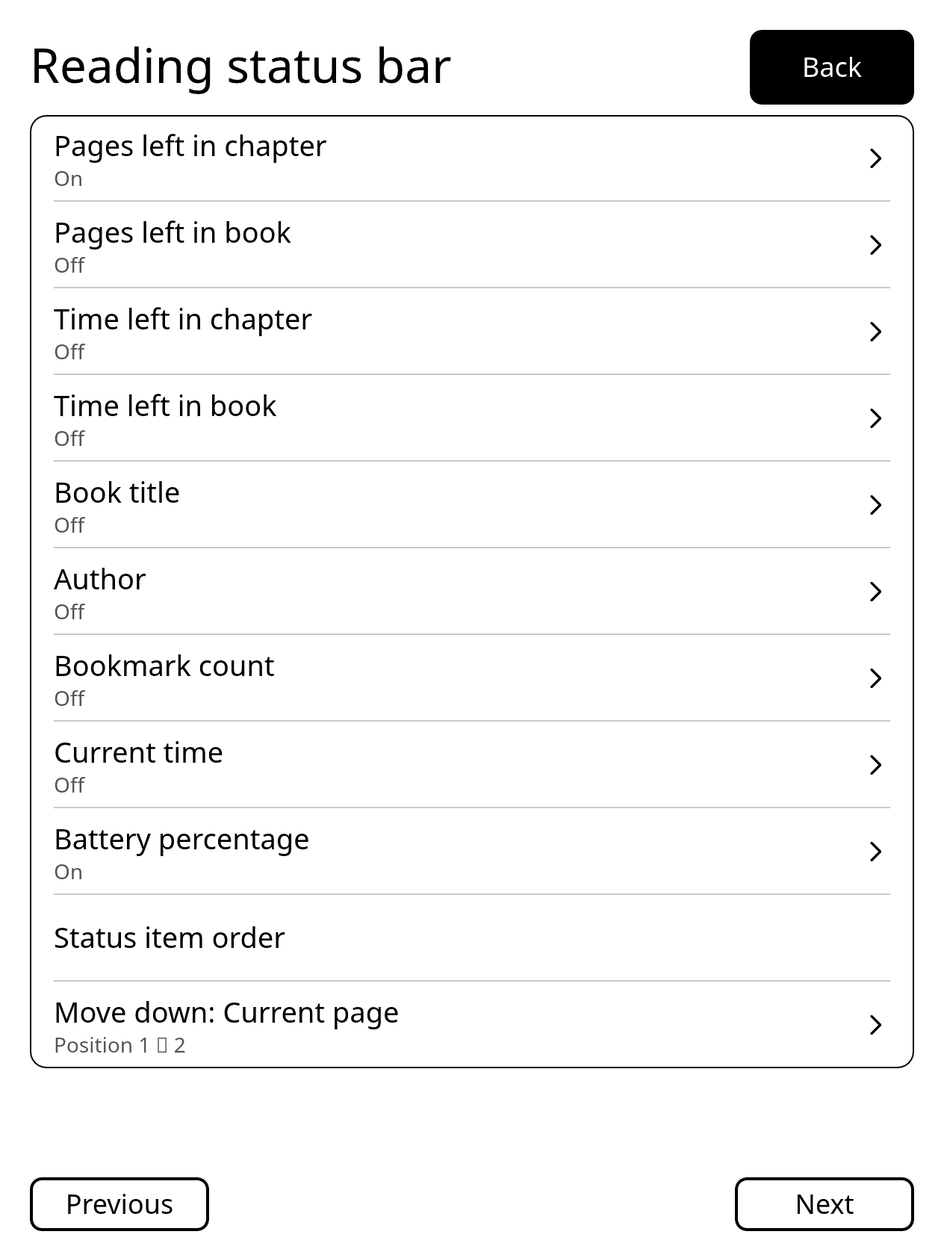
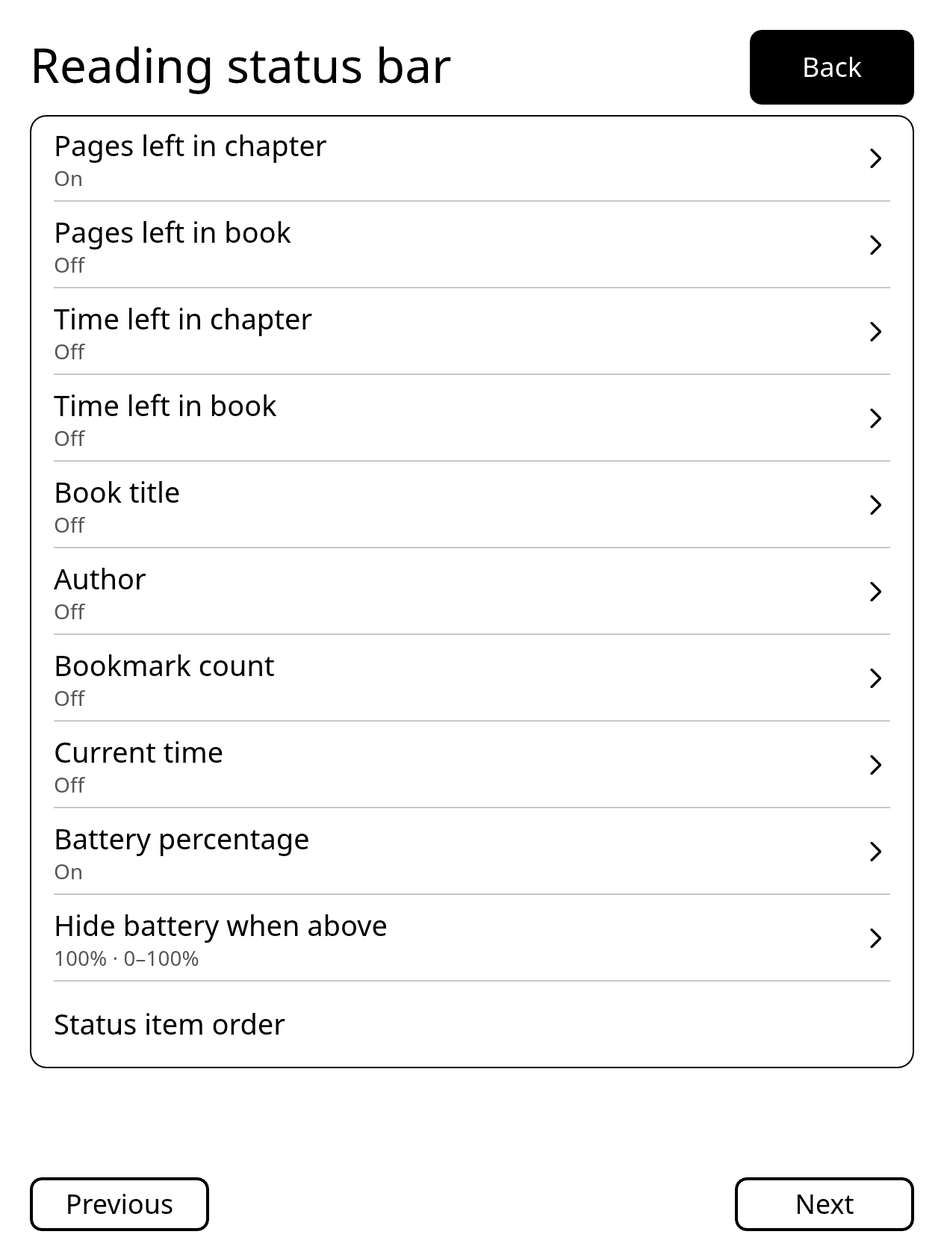
Match KOReader battery hide threshold

Changed region(s): [[0.0617, 0.7119, 0.4011, 0.7738], [0.0617, 0.8048, 0.432, 0.8357]]

diff --git a/src/app.rs b/src/app.rs
@@ -305,6 +305,7 @@ impl Screen {
             Self::NumberingValue(NumberField::AutoTurnOverlapVertical) => "Vertical overlap",
             Self::NumberingValue(NumberField::FooterTrackMinimumWidth) => "Progress bar width",
             Self::NumberingValue(NumberField::FooterTrackMarginWidth) => "Progress bar margins",
+            Self::NumberingValue(NumberField::FooterBatteryHideThreshold) => "Battery threshold",
             Self::NumberingValue(NumberField::MarginSize) => "Margin label size",
             Self::NumberingValue(_) => "Characters per page",
             Self::NumberingDefaults => "Page numbering defaults",
@@ -1371,7 +1372,9 @@ impl Reader {
                 } else if matches!(
                     screen,
                     Screen::NumberingValue(
-                        NumberField::FooterTrackMinimumWidth | NumberField::FooterTrackMarginWidth
+                        NumberField::FooterTrackMinimumWidth
+                            | NumberField::FooterTrackMarginWidth
+                            | NumberField::FooterBatteryHideThreshold
                     )
                 ) {
                     3
@@ -1397,6 +1400,11 @@ impl Reader {
                 Screen::NumberingValue(NumberField::FooterTrackMarginWidth) => {
                     let width = self.controls.footer_track_margin_width.unwrap_or(10);
                     self.editor.text = width.to_string().chars().collect();
+                    self.editor.caret = self.editor.text.len();
+                }
+                Screen::NumberingValue(NumberField::FooterBatteryHideThreshold) => {
+                    let threshold = self.controls.footer_battery_hide_threshold.unwrap_or(100);
+                    self.editor.text = threshold.to_string().chars().collect();
                     self.editor.caret = self.editor.text.len();
                 }
                 _ => {}
@@ -6718,6 +6726,9 @@ impl Reader {
                 }
                 Screen::NumberingValue(NumberField::FooterTrackMarginWidth) => {
                     ("Progress bar margin: 0 to 140 pixels", "Set")
+                }
+                Screen::NumberingValue(NumberField::FooterBatteryHideThreshold) => {
+                    ("Hide battery when charge is above: 0 to 100%", "Set")
                 }
                 Screen::NumberingValue(NumberField::MarginSize) => {
                     ("Margin text size from 8 to 20", "Set")
@@ -13649,6 +13660,67 @@ mod tests {
         }))
         .unwrap();
         assert!(app.footer_refresh_at.is_none());
+    }
+
+    #[test]
+    fn battery_footer_threshold_settings_persist_and_bound_hidden_level() {
+        use crate::reading_controls::{FooterItem, StatusBar};
+
+        let fixture = Fixture::new();
+        let mut app = fixture.app();
+        app.open_path(&fixture.book).unwrap();
+        app.activate(Action::SetReadingControls(ReadingControls {
+            status_bar: StatusBar::Custom,
+            footer_items: ReadingControls::default().footer_items
+                | FooterItem::BatteryPercentage.bit(),
+            ..app.controls
+        }))
+        .unwrap();
+
+        app.show(Screen::FooterSettings);
+        let threshold = app
+            .items()
+            .into_iter()
+            .find(|item| item.title == "Hide battery when above")
+            .expect("the battery item exposes its threshold");
+        assert_eq!(threshold.detail.as_deref(), Some("100% · 0–100%"));
+
+        let field = NumberField::FooterBatteryHideThreshold;
+        app.show(Screen::NumberingValue(field));
+        assert_eq!(app.editor.string(), "100");
+        app.editor.text = "80".chars().collect();
+        app.editor.caret = app.editor.text.len();
+        app.apply_numbering_input(field).unwrap();
+        assert_eq!(app.controls.footer_battery_hide_threshold, Some(80));
+        assert_eq!(
+            ReadingControls::load(&app.controls_path, true).footer_battery_hide_threshold,
+            Some(80)
+        );
+
+        app.show(Screen::NumberingValue(field));
+        app.editor.text = "101".chars().collect();
+        app.editor.caret = app.editor.text.len();
+        assert!(app.apply_numbering_input(field).is_err());
+        assert_eq!(app.controls.footer_battery_hide_threshold, Some(80));
+
+        app.show(Screen::FooterSettings);
+        assert_eq!(
+            app.items()
+                .into_iter()
+                .find(|item| item.title == "Hide battery when above")
+                .and_then(|item| item.detail),
+            Some("80% · 0–100%".to_owned())
+        );
+        app.activate(Action::SetReadingControls(ReadingControls {
+            footer_items: app.controls.footer_items & !FooterItem::BatteryPercentage.bit(),
+            ..app.controls
+        }))
+        .unwrap();
+        assert!(
+            app.items()
+                .iter()
+                .all(|item| item.title != "Hide battery when above")
+        );
     }
 
     #[test]

diff --git a/src/app/reading_footer.rs b/src/app/reading_footer.rs
@@ -295,9 +295,13 @@ fn draw_battery_icon(
     }
 }
 
-fn battery_footer_text(level: u32, charging: bool) -> String {
+fn battery_footer_text(level: u32, charging: bool, hide_above: u8) -> Option<String> {
+    let level = level.min(100);
+    if level > u32::from(hide_above.min(100)) {
+        return None;
+    }
     let label = if charging { "Charging" } else { "Battery" };
-    format!("{label} {}%", level.min(100))
+    Some(format!("{label} {level}%"))
 }
 
 impl Reader {
@@ -1078,8 +1082,12 @@ impl Reader {
                         .map_or(0, |state| state.bookmarks.len())
                 )),
                 FooterItem::CurrentTime => current_time.clone(),
-                FooterItem::BatteryPercentage => primitive_device::battery().map(|percent| {
-                    battery_footer_text(percent.min(100), primitive_device::charging())
+                FooterItem::BatteryPercentage => primitive_device::battery().and_then(|percent| {
+                    battery_footer_text(
+                        percent,
+                        primitive_device::charging(),
+                        self.controls.footer_battery_hide_threshold.unwrap_or(100),
+                    )
                 }),
             };
             if let Some(text) = text {
@@ -1599,6 +1607,20 @@ impl Reader {
                     },
                 ));
             }
+            if c.footer_items & FooterItem::BatteryPercentage.bit() != 0 {
+                items.push(
+                    Item::new(
+                        "Hide battery when above",
+                        Action::Show(Screen::NumberingValue(
+                            NumberField::FooterBatteryHideThreshold,
+                        )),
+                    )
+                    .detail(format!(
+                        "{}% · 0–100%",
+                        c.footer_battery_hide_threshold.unwrap_or(100)
+                    )),
+                );
+            }
             items.push(Item::new("Status item order", Action::Heading));
             let ordered = FooterItem::ordered(c.footer_order);
             for (index, item) in ordered.iter().copied().enumerate() {
@@ -1682,9 +1704,27 @@ mod tests {
 
     #[test]
     fn battery_footer_text_reports_level_and_charging_state() {
-        assert_eq!(battery_footer_text(47, false), "Battery 47%");
-        assert_eq!(battery_footer_text(88, true), "Charging 88%");
-        assert_eq!(battery_footer_text(140, false), "Battery 100%");
+        assert_eq!(
+            battery_footer_text(47, false, 100),
+            Some("Battery 47%".to_owned())
+        );
+        assert_eq!(
+            battery_footer_text(88, true, 100),
+            Some("Charging 88%".to_owned())
+        );
+        assert_eq!(
+            battery_footer_text(140, false, 100),
+            Some("Battery 100%".to_owned())
+        );
+        assert_eq!(
+            battery_footer_text(80, false, 80),
+            Some("Battery 80%".to_owned())
+        );
+        assert_eq!(battery_footer_text(81, false, 80), None);
+        assert_eq!(
+            battery_footer_text(0, false, 0),
+            Some("Battery 0%".to_owned())
+        );
     }
 
     #[test]

diff --git a/src/app/character_page_settings.rs b/src/app/character_page_settings.rs
@@ -20,6 +20,7 @@ pub(super) enum NumberField {
     AutoTurnOverlapVertical,
     FooterTrackMinimumWidth,
     FooterTrackMarginWidth,
+    FooterBatteryHideThreshold,
 }
 
 impl NumberField {
@@ -33,7 +34,9 @@ impl NumberField {
             | Self::WordSpacing(_) => Screen::Book,
             Self::AutoTurn => Screen::AutoTurn,
             Self::AutoTurnOverlapHorizontal | Self::AutoTurnOverlapVertical => Screen::AutoTurnPan,
-            Self::FooterTrackMinimumWidth | Self::FooterTrackMarginWidth => Screen::FooterSettings,
+            Self::FooterTrackMinimumWidth
+            | Self::FooterTrackMarginWidth
+            | Self::FooterBatteryHideThreshold => Screen::FooterSettings,
         }
     }
 }
@@ -202,6 +205,20 @@ impl Reader {
             self.show(field.parent());
             return Ok(());
         }
+        if field == NumberField::FooterBatteryHideThreshold {
+            let threshold = value
+                .trim()
+                .parse::<u8>()
+                .ok()
+                .filter(|percent| *percent <= 100)
+                .ok_or("Enter a battery threshold from 0% to 100%")?;
+            let mut controls = self.controls;
+            controls.footer_battery_hide_threshold = Some(threshold);
+            controls.save(&self.controls_path)?;
+            self.controls = controls;
+            self.show(field.parent());
+            return Ok(());
+        }
         if matches!(
             field,
             NumberField::FooterTrackMinimumWidth | NumberField::FooterTrackMarginWidth
@@ -255,6 +272,7 @@ impl Reader {
             }
             NumberField::FooterTrackMinimumWidth => unreachable!("handled above"),
             NumberField::FooterTrackMarginWidth => unreachable!("handled above"),
+            NumberField::FooterBatteryHideThreshold => unreachable!("handled above"),
             NumberField::MarginSize => {
                 controls.numbering.label_size = number
                     .filter(|n| (8..=20).contains(n))

diff --git a/src/reading_controls.rs b/src/reading_controls.rs
@@ -98,6 +98,9 @@ pub(crate) struct ReadingControls {
     pub footer_initial_marker: bool,
     #[serde(skip_serializing_if = "is_false")]
     pub footer_auto_refresh: bool,
+    /// Hide the custom footer battery item when the charge is above this level; absent keeps 100%.
+    #[serde(skip_serializing_if = "Option::is_none")]
+    pub footer_battery_hide_threshold: Option<u8>,
     #[serde(skip_serializing_if = "TopHeader::is_default")]
     pub top_header: TopHeader,
     #[serde(skip_serializing_if = "ChapterMarkerWidth::is_default")]
@@ -1240,12 +1243,14 @@ mod tests {
             footer_items: FooterItem::DEFAULT_MASK
                 | FooterItem::BookmarkCount.bit()
                 | FooterItem::BatteryPercentage.bit(),
+            footer_battery_hide_threshold: Some(80),
             ..ReadingControls::default()
         };
         let bytes = serde_json::to_vec(&controls).unwrap();
         let reopened: ReadingControls = serde_json::from_slice(&bytes).unwrap();
         assert_eq!(reopened.status_bar, StatusBar::Custom);
         assert_eq!(reopened.footer_items, controls.footer_items);
+        assert_eq!(reopened.footer_battery_hide_threshold, Some(80));
         assert_eq!(FooterItem::BatteryPercentage.label(), "Battery percentage");
         assert!(FooterItem::ordered(0).contains(&FooterItem::BatteryPercentage));
 

diff --git a/docs/koreader-controls-parity.md b/docs/koreader-controls-parity.md
@@ -70,7 +70,7 @@ The reference captures use KOReader on a Kindle Oasis 3, with a reflowable book 
 | Bottom configuration | `ReaderConfig` selects `CreOptions` for reflow or `KoptOptions` for a document with the kopt interface. Tap the lower zone or swipe north from it. A per-document index restores the last panel. `Activate menu` can allow taps, swipes or both, and `show_bottom_menu` defaults true if unset. [Provider selection and config dispatch](https://github.com/koreader/koreader/blob/v2026.07.1/frontend/apps/reader/modules/readerconfig.lua#L13-L197) · [Activation options](https://github.com/koreader/koreader/blob/v2026.07.1/frontend/ui/elements/menu_activate.lua) | **Desktop candidate** context-specific Text, View and Scan panels with direct Contents, Bookmarks, Highlights and Find; selected values; and live in-place adjustment for supported controls. Preserve direct reading actions while switching panels. **Open** complete provider-specific behavior and Kindle interaction comparison. |
 | Selection and long-press | KOReader offers Top, Center, Bottom or selected-text placement; Center is the default. Long-press has a single-word dictionary toggle and nine default actions: Ask, Do nothing, Highlight, Select and highlight, Note, Translate, Wikipedia, Dictionary and Fulltext search. The selection action grid also offers Copy. It provides highlight style/color prompts, a very-long-press interval and a corner auto-scroll toggle. [Action dispatch](https://github.com/koreader/koreader/blob/v2026.07.1/frontend/apps/reader/modules/readerhighlight.lua#L1967-L2029) · [Copy handler](https://github.com/koreader/koreader/blob/9192014d8bd82a91dc1012473be0f238dedfdb54/frontend/apps/reader/modules/readerhighlight.lua#L2374-L2395) · [Settings](https://github.com/koreader/koreader/blob/v2026.07.1/frontend/apps/reader/modules/readerhighlight.lua#L348-L380) · [Position choices](https://github.com/koreader/koreader/blob/v2026.07.1/frontend/apps/reader/modules/readerhighlight.lua#L336-L379) | **Implemented in the desktop candidate** all four dialog placements, Center default, nine default action choices, selected-text Copy with an in-process clipboard, single-word dictionary default/opt-out and the default-On corner-scroll preference. Copy normalizes selection whitespace; Paste inserts into Reader note, book search, bookmark search, dictionary and vocabulary fields. Optional Off/Style/Color/Style and color prompts preview the selected appearance and save per-mark EPUB/PDF highlights without changing future book defaults. HoldStart paints a temporary selection; paced HoldPan extends it; HoldRelease runs the chosen action. The very-long interval defaults to 3.0 seconds and adjusts from 0.9 to 20.0 seconds. Reflowable books auto-scroll only in continuous mode, matching KOReader; Reader also supports cross-page PDF selection behind the same preference. **Open** Kindle timing/zone comparison and real Documents checks. [Selection dialog](selection-dialog.md) · [Copy action screenshot](screenshots/selection-copy.png) · [Long-press behavior and screenshots](long-press-behavior.md) |
 | Edge zones | Default top and bottom menu strips are one eighth of display height, extended to one fifth in the middle half of width. The bottom one thirteenth is reserved for the status footer's taps, with overlap resolved by gesture priority. Ordinary page turns use independent tap zones. [Default regions](https://github.com/koreader/koreader/blob/v2026.07.1/defaults.lua#L54-L75) · [Footer priority](https://github.com/koreader/koreader/blob/v2026.07.1/frontend/apps/reader/modules/readerfooter.lua#L918-L956) | Prefer top and bottom drag origins for menu swipes and leave middle-page vertical drags to continuous text and PDF panning. Dispatch selected links, highlight gestures, touch lock, and Done through their existing paths. The shared swipe callback provides `start_x` alongside the `Input::Swipe` event, and Reader routes top/bottom swipes through left, middle and right start regions. Desktop regression coverage exercises those regions and remembers the selected group. **Open** comparison of exact touch zones on Kindle. Keep horizontal swipes and both physical page buttons on their current turn handlers. [PrimitiveOS input contract](https://github.com/PrimitiveOS/kindle-primtitive-tools/blob/398679696d19e0334a164775a3740cc700ffc9de/crates/kl-core/src/ui.rs#L50-L61) |
-| Status and exit | The status footer is independent of both overlay panels. Tapping cycles indicators or toggles visibility in all-items mode. A configurable long press opens Skim when enabled. KOReader exposes individually selectable and orderable metrics, four separators, decimal precision, an option to count the current page as remaining, and optional clock and battery refresh. Its progress track defaults to Alongside, Thick (7 px), 20% minimum width and 10 px margin; chapter markers default to 2 px with Thin/Medium/Thick choices. General extension-provided footer content remains out of scope. [Footer defaults](https://github.com/koreader/koreader/blob/v2026.07.1/frontend/apps/reader/modules/readerfooter.lua#L487-L539) · [Position and track height](https://github.com/koreader/koreader/blob/v2026.07.1/frontend/apps/reader/modules/readerfooter.lua#L1131-L1264) · [Margins, minimum width and lock option](https://github.com/koreader/koreader/blob/v2026.07.1/frontend/apps/reader/modules/readerfooter.lua#L1266-L1349) · [Chapter marker width](https://github.com/koreader/koreader/blob/v2026.07.1/frontend/apps/reader/modules/readerfooter.lua#L1808-L1828) · [Pages left and percentage generation](https://github.com/koreader/koreader/blob/v2026.07.1/frontend/apps/reader/modules/readerfooter.lua#L253-L313) · [Tap and hold behavior](https://github.com/koreader/koreader/blob/v2026.07.1/frontend/apps/reader/modules/readerfooter.lua#L2387-L2427) · [Main and exit](https://github.com/koreader/koreader/blob/v2026.07.1/frontend/ui/elements/reader_menu_order.lua#L227-L273) | **Desktop candidate, verified by Mac workflow tests** page/chapter/progress/remaining-page/time metrics, book title/author, bookmark count, custom selection and reordering, separator choice, include-current page count, percentage precision, and progress-track placement, thickness, minimum width, margin, width lock, initial-position marker and chapter-tick width. Current time and battery percentage are selectable; the battery item reports charging state. Optional minute-boundary refresh defaults Off, pauses during sleep and resumes on wake. [Current clock capture](screenshots/current-time-footer.png) · [Battery item settings](screenshots/battery-footer-settings.png) · [Reading footer](screenshots/custom-footer-status.png) · [Alongside](screenshots/reading-footer-alongside.png) · [Locked width](screenshots/reading-footer-locked.png) · [Footer settings](screenshots/reading-footer-settings.png). **Open** footer typography/alignment/height controls, presets, exact chapter-marker placement and Kindle battery/appearance acceptance. Brightness and warmth remain Launcher-owned. |
+| Status and exit | The status footer is independent of both overlay panels. Tapping cycles indicators or toggles visibility in all-items mode. A configurable long press opens Skim when enabled. KOReader exposes individually selectable and orderable metrics, four separators, decimal precision, an option to count the current page as remaining, and optional clock and battery refresh. Its progress track defaults to Alongside, Thick (7 px), 20% minimum width and 10 px margin; chapter markers default to 2 px with Thin/Medium/Thick choices. General extension-provided footer content remains out of scope. [Footer defaults](https://github.com/koreader/koreader/blob/v2026.07.1/frontend/apps/reader/modules/readerfooter.lua#L487-L539) · [Position and track height](https://github.com/koreader/koreader/blob/v2026.07.1/frontend/apps/reader/modules/readerfooter.lua#L1131-L1264) · [Margins, minimum width and lock option](https://github.com/koreader/koreader/blob/v2026.07.1/frontend/apps/reader/modules/readerfooter.lua#L1266-L1349) · [Chapter marker width](https://github.com/koreader/koreader/blob/v2026.07.1/frontend/apps/reader/modules/readerfooter.lua#L1808-L1828) · [Pages left and percentage generation](https://github.com/koreader/koreader/blob/v2026.07.1/frontend/apps/reader/modules/readerfooter.lua#L253-L313) · [Tap and hold behavior](https://github.com/koreader/koreader/blob/v2026.07.1/frontend/apps/reader/modules/readerfooter.lua#L2387-L2427) · [Main and exit](https://github.com/koreader/koreader/blob/v2026.07.1/frontend/ui/elements/reader_menu_order.lua#L227-L273) | **Desktop candidate, verified by Mac workflow tests** page/chapter/progress/remaining-page/time metrics, book title/author, bookmark count, custom selection and reordering, separator choice, include-current page count, percentage precision, and progress-track placement, thickness, minimum width, margin, width lock, initial-position marker and chapter-tick width. Current time and battery percentage are selectable; the battery item reports charging state and has a saved 0–100% hide threshold (default 100%). Optional minute-boundary refresh defaults Off, pauses during sleep and resumes on wake. [Current clock capture](screenshots/current-time-footer.png) · [Battery item settings](screenshots/battery-footer-settings.png) · [Reading footer](screenshots/custom-footer-status.png) · [Alongside](screenshots/reading-footer-alongside.png) · [Locked width](screenshots/reading-footer-locked.png) · [Footer settings](screenshots/reading-footer-settings.png). **Open** footer typography/alignment/height controls, presets, exact chapter-marker placement and Kindle battery/appearance acceptance. Brightness and warmth remain Launcher-owned. |
 
 **Alternate top status header.** KOReader's CRE status header shows book
 metadata and configurable page, time, progress, chapter and battery information

diff --git a/docs/reading-parity-plan.md b/docs/reading-parity-plan.md
@@ -44,13 +44,13 @@ only to find and compare relevant controls.
 
 ### Execution checklist
 
-**Milestone status:** 23 of 28 checklist items (82%) have desktop, scope, or
+**Milestone status:** 24 of 29 checklist items (83%) have desktop, scope, or
 device-system evidence. This count tracks plan milestones, not overall feature
 parity; many reading requirements and the foreground Kindle acceptance gates
 remain open.
 
-**Control evidence snapshot:** 188 of 541 in-scope reading-control rows are
-marked as complete workflows; 211 are partial, 92 are gaps, and 50 need
+**Control evidence snapshot:** 189 of 541 in-scope reading-control rows are
+marked as complete workflows; 211 are partial, 91 are gaps, and 50 need
 audit. Six Kindle display/runtime controls were reclassified as Launcher-owned
 or outside reading scope. This unweighted inventory is a status breakdown, not
 a feature-weighted completion score. Current Kindle acceptance and publication
@@ -69,11 +69,12 @@ remain separate gates.
 - [x] Add KOReader's dictionary pencil: tap edits the original query and long press edits the active result headword. Submitting creates a nested lookup; Back restores the prior result and source passage. EPUB interaction tests pass and the editor screenshot has been inspected. Kindle acceptance remains open. [Dictionary evidence](reading-control-evidence.md#dictionary-navigation-checks)
 - [ ] Compare selection placement, hold timing, corner zones and cross-page PDF selection behavior against KOReader on Kindle.
 - [ ] Compare selection-dialog placement, long-press behavior, highlight appearance and dismissal against KOReader on the Kindle.
-- [x] Run the current desktop library, binary, package and layout test suites against the pinned shared-input revision. The latest full Mac run passes 952 Reader tests with 62 ignored, one Kindle binary test, 14 package tests and four layout probes. The earlier test-only ARMHF bundle on the Oasis passed 927 Reader tests, 14 package tests and four layout probes; it predates the current page-overlap changes. The isolated shared-input worktree passes 140 `kl-core`, eight `primitive-app` and four `primitive-input` tests.
+- [x] Run the current desktop library, binary, package and layout test suites against the pinned shared-input revision. The latest full Mac run passes 953 Reader tests with 62 ignored, one Kindle binary test, 14 package tests and four layout probes. The latest test-only ARMHF bundle on the Oasis passes 953 Reader tests with 62 ignored, 14 package tests and four layout probes. The isolated shared-input worktree passes 140 `kl-core`, eight `primitive-app` and four `primitive-input` tests. [Build hashes and device test limits](execution-plan.md#current-host-and-device-integration-gate)
 - [x] Build the static ARMHF candidate from the current worktree, run its native suites on the Oasis, and record its checksum in the [execution plan](execution-plan.md#current-host-and-device-integration-gate). Foreground UI acceptance and release remain open.
 - [x] Add user-reorderable status metrics, KOReader-style footer separator choices, “pages left includes current page,” and 0–2 decimal-place progress percentages. Verify settings persistence, item movement, and actual combined/custom captions; capture and inspect the footer and settings simulator frames. Kindle acceptance remains open.
 - [x] Add a selectable local current-time footer item and optional minute-boundary refresh, default Off. Verify local-time rendering, settings persistence, timer scheduling, sleep/wake pause and resume, and inspect the simulator capture; Kindle acceptance remains open. [Clock capture](screenshots/current-time-footer.png)
 - [x] Add an optional battery percentage/charging item to the custom reading footer. Reuse the existing auto-refresh setting, update on minute boundaries, pause during sleep, and stop polling when hidden. Verify formatting, option persistence and scheduling; inspect the settings capture. Kindle battery reporting remains open. [Battery footer behavior and capture](battery-footer.md)
+- [x] Match KOReader's battery hide threshold: saved 0–100% value, default 100%, and hide only when the battery level is higher than the configured threshold. Verify the exact boundary, clamping, persistence and conditional setting row. Kindle battery reporting remains open. [Battery footer behavior and capture](battery-footer.md)
 - [x] Add KOReader's optional top status header for paged reflow reading, with title, author, clock, page count, progress, chapter marks, battery state and adjustable font size. Preserve the source anchor on relayout; hide the header in continuous scroll; verify battery/clock refresh scheduling, light/night screenshots and desktop behavior. Kindle appearance and battery checks remain open. [Header behavior and screenshots](top-status-header.md)
 - [x] Match KOReader's progress-track positions and thickness choices, with its Alongside, Thick 7 px, and 20% minimum-width defaults. Measure the displayed caption to reserve space; expose the adjustable 5–90% minimum width, persist it, and verify EPUB/PDF layouts and light/dark simulator captures. Kindle acceptance remains open.
 - [x] Add KOReader's adjustable progress-track inset (0–140 px, 10 px default) and Thin/Medium/Thick chapter ticks (1/2/3 px, 2 px default). Persist both; test their EPUB/PDF geometry and ensure the track stays clear of Zoom, Exit, and the Next Comic control.
@@ -136,7 +137,7 @@ controls and resumed preferences remains open.
 | Scanned documents | Embedded and recognized text reflow across readable source pages. Original word-image reflow for scans with complete horizontal left-to-right OCR and a column view for clear two-column scans. English and Vietnamese recognized by the worker on desktop. The ARMHF package's English OCR worker produced word boxes on Oasis 3. | Broader layout and language cases, and sustained tests with real scans |
 | Library and controls | Folder navigation with file types, sizes and support labels, whole-library search, favorites, reading status, collections, author and recent views, EPUB cover previews and series, [daily reading history and a calendar](reading-statistics.md), separately retained undated screen time, reusable text profiles, night pages, adjustable toolbar sizes, mirrored or disabled tap turns, touch lock, optional E Ink full refresh intervals, chapter-spanning page thumbnails, transient EPUB and fixed-page Skim previews with queued turns, origin restore, cancel and one-entry return history, location history and zoom for framed comic panels in single-page views | More configurable gestures, broader accessibility, physical Skim panel interaction and dialog preferences, outline editing for additional provider types and excluded sections, and irregular comic panels |
 | Reading data | Backup and restore with preview, text/Markdown/HTML annotation exports, adjacent KOReader EPUB bookmarks and source-verified highlighted passages, KOReader JSON annotations by unique quotation, and sampled-fingerprint checks for fixed-page sidecar progress and supported reflowable EPUB CFIs and normalized CREngine DocFragment positions | Additional CREngine DOM versions, broader CFI and sidecar variants, and migration measurements with larger libraries |
-| Kindle verification | Reader 0.1.20 passed 515 native and Mac tests. Installed KOReader served as reference for source-selected EPUB layout, dictionary suggestions and result context. The earlier signed 0.1.18 package opened and resumed all 117 readable entries. | Latest full Mac run passes 952 Reader tests (62 ignored), one Kindle binary test, 14 EPUB package tests and four layout probes. Reader 0.1.24's separate ARMHF candidate suite passes 946, 14 and four on Oasis. Its Documents diagnostic opened and resumed 74 of 88 supported candidates; 13 AZW/KFX files returned Kindle Library guidance, and a PDF paused at a possible password prompt. The installed Reader and Launcher remain unchanged; foreground controls, physical E Ink behavior and visual acceptance remain open. [Execution plan](execution-plan.md#current-host-and-device-integration-gate) · [Reading evidence](reading-control-evidence.md) · [Original documents](real-document-verification.md) · [Current AutoTurn and manual pan evidence](auto-turn-parity.md) · [Long-press behavior](long-press-behavior.md) |
+| Kindle verification | Reader 0.1.20 passed 515 native and Mac tests. Installed KOReader served as reference for source-selected EPUB layout, dictionary suggestions and result context. The earlier signed 0.1.18 package opened and resumed all 117 readable entries. | Latest feature worktree passes 953 Mac Reader tests (62 ignored), one Kindle binary test, 14 EPUB package tests and four layout probes; its test-only ARMHF bundle passes 953, 14 and four on Oasis. Reader 0.1.24's separate ARMHF candidate suite passes 946, 14 and four on Oasis. Its Documents diagnostic opened and resumed 74 of 88 supported candidates; 13 AZW/KFX files returned Kindle Library guidance, and a PDF paused at a possible password prompt. The installed Reader and Launcher remain unchanged; foreground controls, physical E Ink behavior and visual acceptance remain open. [Execution plan](execution-plan.md#current-host-and-device-integration-gate) · [Reading evidence](reading-control-evidence.md) · [Original documents](real-document-verification.md) · [Current AutoTurn and manual pan evidence](auto-turn-parity.md) · [Long-press behavior](long-press-behavior.md) |
 
 The initial feasibility run passed 249 desktop Reader tests, six vendored Parley tests, and 16 Files tests.
 Reader rendered three public-domain DjVu samples and 12 narrative chapters from

diff --git a/docs/requirements.md b/docs/requirements.md
@@ -39,7 +39,7 @@ Deliver the offline EPUB workflows needed to use Reader as a daily reading app o
 | ID | Reader requirement and KOReader workflow | Acceptance evidence |
 | --- | --- | --- |
 | K06 | Browse reader-supported files, show recent books and basic metadata, and resume quickly. Keep book-specific settings and progress with a stable identity. | Copy a book into a supported folder, open it from Reader, and resume from Recents. Rename or move it, rebuild the index, and verify preserved state. Open two different files with the same title and confirm their progress and settings stay separate. Report missing files with a recovery path. |
-| K07 | Navigate with the table of contents, progress, bookmarks, and inline links. Usually hide controls during reading and support quick return from a footnote or jump. Show bookmarks, highlights and notes in one in-book list with reading-order, date and reverse sorting. | In a nested table of contents, jump to an exact subsection and return after a footnote. Add bookmarks and highlights out of sequence; confirm their shared page/date ordering, reverse order, unchanged jump/edit targets, and persisted choices. Restart the app and return to a marked passage. Verify chapter and book progress after a jump. Check tap and physical controls on the Kindle. If enabled, confirm footer battery percentage/charging state updates and pauses during sleep. [Bookmark ordering](bookmark-page-order.md) · [Battery footer](battery-footer.md) |
+| K07 | Navigate with the table of contents, progress, bookmarks, and inline links. Usually hide controls during reading and support quick return from a footnote or jump. Show bookmarks, highlights and notes in one in-book list with reading-order, date and reverse sorting. | In a nested table of contents, jump to an exact subsection and return after a footnote. Add bookmarks and highlights out of sequence; confirm their shared page/date ordering, reverse order, unchanged jump/edit targets, and persisted choices. Restart the app and return to a marked passage. Verify chapter and book progress after a jump. Check tap and physical controls on the Kindle. If enabled, confirm footer battery percentage/charging state updates, the threshold boundary, and sleep/wake behavior. [Bookmark ordering](bookmark-page-order.md) · [Battery footer](battery-footer.md) |
 | K08 | Support adjustable font family, size, line spacing, margins, alignment, and publisher-style preferences. Offer readable grayscale, appropriate font fallback, and per-book settings. | Read a styled book with embedded or bundled fonts and a fixture using non-ASCII characters. Change defaults and single-book overrides, then reopen two books and verify each gets the intended settings. Inspect clipping, contrast, touch targets, and readability on the Kindle in both portrait orientations. |
 | K09 | Select passages including across a rendered page boundary. Add, browse, edit, and remove highlights or notes. Store contextual anchors and export annotations locally. Show saved marks with their page bookmarks in one list. Choose whether annotation rows show highlighted text, both text and note, or the note when present. | Select a passage crossing a page break. Attach and edit a note, change text size, rotate, and restart. Verify the original selected text remains highlighted and opens at its location. From a contextual dictionary lookup, toggle Highlight/Unhighlight and verify the passage is saved on close; toggle it back and verify no mark is saved. Exercise all three saved annotation-row display modes in the shared list, export the notes, inspect book identity and text, and verify changes and deletion persist. |
 | K10 | Search the text of the current book offline and jump to a result. Support cancellation and returning to the previous reading position. | With Wi-Fi off, search repeated words and a term with a non-ASCII character in a multi-chapter book. Verify results include context, land at the selected match, and support returning to the prior position. Cancel a long search and confirm the reading controls remain usable. |

diff --git a/docs/koreader-source-inventory.md b/docs/koreader-source-inventory.md
@@ -30,7 +30,7 @@ it; the excluded rows and inventory counts do not measure completed parity.
 | `readerback`, `readerflipping`, `readergoto`, `readerlink`, `readerthumbnail` | Location history, page jumps, links and thumbnail skimming are available. Check cancellation, forward history after branching, footnote previews and nonlinear flows. |
 | `readerhandmade`, `readerpagemap`, `readertoc` | Publisher, generated and custom contents have dedicated workflows. The print list follows the publisher’s exact targets and exposes per-book footer and margin controls. Publisher non-linear fragments have per-book controls, a reader-wide default and explicit destinations. Reader-authored hidden ranges provide source-anchored boundary editing, inactive-marker cleanup, masked page/scroll/spread navigation and flow-relative status. Reference algorithms and private original EPUB/PDF workflows have separate desktop checks; aggregate native and foreground acceptance remain pending. [Print page evidence](publisher-page-numbers.md) · [Non-linear fragments](nonlinear-reading.md) · [Custom hidden flows](custom-hidden-flows.md) |
 | `readerdictionary`, `readerwikipedia` | Installed dictionary checks cover English inflections, spelling suggestions, per-book source preferences and selection restoration. Compare language-specific candidate generators, vocabulary review, full Wikipedia articles and remote lookup failures separately. [Dictionary evidence](dictionary-word-forms.md) · [Network lookups](online-lookups.md) |
-| `readerfooter`, `readerstatus`, `readeractivityindicator`, `readerdevicestatus` | Reader's custom footer exposes selectable reading metrics, including battery percentage and charging state, with optional clock/battery refresh. Check chapter progress, hidden mode and deliberate exit; compare each device indicator against Launcher ownership. [Battery footer capture](battery-footer.md) |
+| `readerfooter`, `readerstatus`, `readeractivityindicator`, `readerdevicestatus` | Reader's custom footer exposes selectable reading metrics, including battery percentage, charging state and a saved hide threshold, with optional clock/battery refresh. Check chapter progress, hidden mode and deliberate exit; compare each device indicator against Launcher ownership. [Battery footer capture](battery-footer.md) |
 | `readerconfig`, `readermenu` | Compare upper groups, lower format controls, remembered selections, current values, outside dismissal and page-button behavior on both document types. |
 | `readerfont`, `readertypeset`, `readertypography`, `readeruserhyph`, `readerstyletweak` | Reader provides font selection, shaping, publisher CSS, authored hyphens and user exceptions. The [supported user-style candidate](style-tweaks.md) adds live global presets, per-book overrides and reviewed custom CSS with explicit unsupported-input diagnostics. Its own desktop suite and three original-file reopen workflows pass. Full CSS layout, broader language behavior and integrated native acceptance remain separate gates. |
 | `readerhinting`, `readerpaging`, `readerrolling`, `readerscrolling`, `readerview` | Exercise eager and delayed pagination, continuous scroll, mixed writing directions, overlap, source anchors and cache behavior. |

diff --git a/docs/execution-plan.md b/docs/execution-plan.md
@@ -48,7 +48,7 @@ counts do not measure completed parity.
 ## Current host and device integration gate
 
 The latest full Mac `cargo test --locked --features kindle` run, against the
-current worktree, passed 952 Reader library tests with 62 ignored for private
+current worktree, passed 953 Reader library tests with 62 ignored for private
 or device-provided inputs, one Kindle binary test, 14 EPUB package tests, and
 four layout probes. The page-overlap movement, style, settings-panel,
 alternate top status header, battery footer and persistence regressions are
@@ -132,6 +132,24 @@ the test bundle used a temporary profile and did not replace Reader or Launcher,
 or alter user documents or saved reading data. The temporary bundle has since
 been removed. This native run validates ARM behavior, not foreground rendering,
 physical buttons or E Ink refresh for the new status controls.
+
+On 23 November 2026, the battery-footer threshold update was tested on the Mac
+and on the Oasis 3 from a test-only ARMHF bundle built from the worktree based
+on `37799e3`. The Mac suite passed 953 Reader tests (62 ignored), one Kindle
+binary test, 14 EPUB package tests, and four layout probes. On-device ARMHF
+results were 953 Reader tests (62 ignored), 14 package tests, and four layout
+probes, with no failures. The Reader, EPUB package, layout probe, and
+reader-probe binary SHA-256 values are respectively
[4 lines of base64/hex data omitted]
+The test archive's SHA-256 matched on the Mac and Kindle before extraction.
+The Kindle remained awake; its available storage returned to 4.0 GiB after the
+temporary bundle and profile were removed. These suites validate ARM execution
+of app logic and document engines only. The installed Reader and Launcher,
+reading data, and owner documents were not changed, and foreground visual or
+physical E Ink acceptance for the battery value remains open.
 
 | ARMHF chapter | Characters / pages | Median first frame | Median layout | Median warm raster p95 | Peak RSS | Missing glyphs |
 |---|---:|---:|---:|---:|---:|---:|

diff --git a/docs/battery-footer.md b/docs/battery-footer.md
@@ -3,17 +3,20 @@
 The custom reading footer can show the Kindle battery level as `Battery 57%`;
 while plugged in it shows `Charging 57%`. Enable **Battery percentage** under
 Reading Status Bar → Visible status items. The item is optional and off by
-default. Its battery check uses the existing **Auto refresh items** setting;
-refresh pauses while the device sleeps and stops when the item is hidden.
+default. **Hide battery when above** sets a 0–100% threshold, default 100%; the
+item hides only when the charge is strictly above that value, then reappears as
+the battery falls. Its battery check uses the existing **Auto refresh items**
+setting; refresh pauses while the device sleeps and stops when the item is
+disabled.
 
 ![Battery percentage enabled in the custom reading footer settings](screenshots/battery-footer-settings.png)
 
 The desktop host does not provide Kindle battery state, so the simulator capture
-shows the control enabled rather than a fabricated battery value. Formatting
-tests cover battery level bounds and charging text. The full desktop suite passes
-952 Reader tests (62 ignored), one Kindle binary test, 14 EPUB package tests and
-four layout probes. Actual battery data and E Ink appearance still need the
-foreground Kindle acceptance run.
+shows the control and threshold rather than a fabricated battery value.
+Formatting tests cover battery bounds, charging text and the hide threshold;
+workflow tests cover persistence, valid/invalid input and settings visibility.
+Actual battery data and E Ink appearance still need the foreground Kindle
+acceptance run.
 
 This matches KOReader's selectable battery-percentage status item and respects
 the Reader/Launcher boundary: it reports state while reading but does not change
